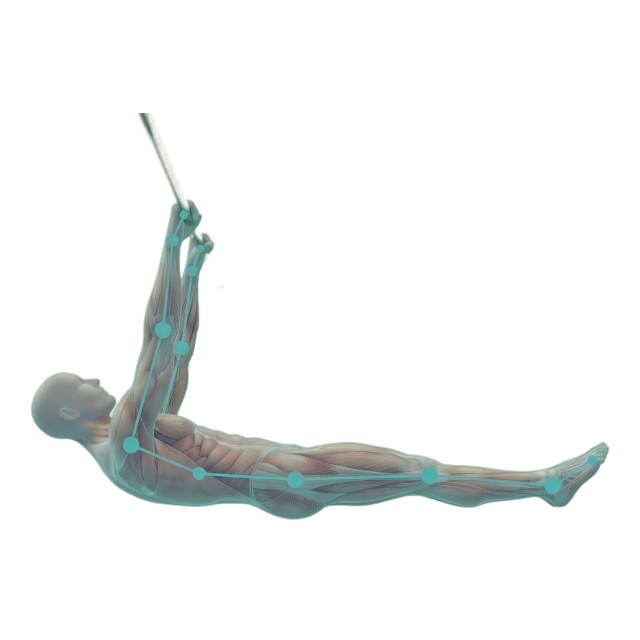
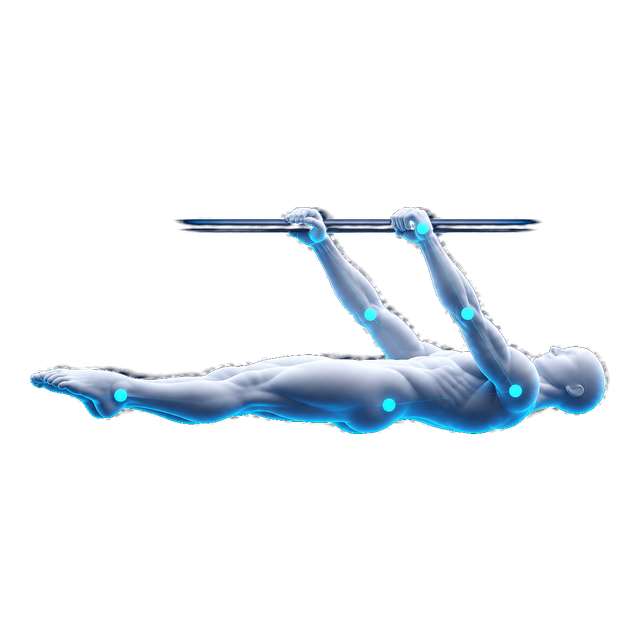
Exporte en resolution native et remplace l illustration du front lever
Nouvelle illustration du full front lever, detouree et normalisee au format
des autres figures via un script reutilisable (scripts/import-figure-image.mjs).

L export video sortait en 1080p quelle que soit la source. Il suit desormais
la resolution de la video importee, plafonnee a l UHD. Cela suppose de suivre
le niveau H.264 (4.2 s arrete vers le 1080p, la 4K demande 5.1 ou 5.2), de
relever le plafond de debit de 25 a 45 Mb/s sans quoi la 4K sortait plus
compressee que la 1080p, et de resserrer les paliers de repli quand l encodeur
de l appareil refuse la resolution native.

Le stockage Supabase reste en 1080p : la limite de 50 Mo par fichier est une
contrainte dure du plan gratuit.

Changed region(s): [[0.0312, 0.1562, 0.9688, 0.8125]]

diff --git a/src/lib/video/writer.ts b/src/lib/video/writer.ts
@@ -14,11 +14,29 @@ import { withFixedDuration } from "./fixMp4Duration";
 // les métadonnées sont placées en tête de fichier, durée comprise).
 // MediaRecorder reste en repli pour les navigateurs sans WebCodecs.
 
+// Chaînes de codec H.264, par profil et par niveau. Le niveau borne la
+// résolution : 4.2 s'arrête à peu près au 1080p, il faut 5.1 ou 5.2 pour de
+// la 4K. Un encodeur à qui on demande du 3840x2160 en niveau 4.2 refuse la
+// configuration, ce qui faisait retomber tout l'export en MediaRecorder.
+const CODEC_CANDIDATES_HIGH_RES = [
+  "avc1.640034", // High 5.2 — couvre la 4K
+  "avc1.640033", // High 5.1
+  "avc1.4D0034", // Main 5.2
+];
 const CODEC_CANDIDATES = [
   "avc1.42002A", // Baseline 4.2 — le plus largement décodable
   "avc1.4D002A", // Main 4.2
   "avc1.64002A", // High 4.2
 ];
+
+// Au dessus du 1080p, les niveaux élevés passent en premier ; les niveaux
+// plus bas restent essayés ensuite, parce que certains encodeurs acceptent
+// une résolution que leur niveau déclaré ne couvre pas en théorie.
+function codecCandidatesFor(width: number, height: number): string[] {
+  return Math.max(width, height) > 1920
+    ? [...CODEC_CANDIDATES_HIGH_RES, ...CODEC_CANDIDATES]
+    : CODEC_CANDIDATES;
+}
 
 const RECORDER_MIME_TYPES = [
   "video/mp4;codecs=avc1.42E01E",
@@ -33,8 +51,15 @@ const RECORDER_MIME_TYPES = [
 // défaut du navigateur, pour un rendu net et publiable plutôt que
 // compressé. Recalculé après un éventuel redimensionnement, sinon une
 // vidéo réduite garderait le débit d'une 1080p et pèserait pour rien.
+//
+// Le plafond était à 25 Mb/s, calibré sur le 1080p. En 4K il ramenait le
+// débit à 3 bits/pixel, soit une image visiblement plus compressée que ce
+// que reçoit une 1080p : la résolution montait, la qualité descendait.
+// Il est donc porté à 45 Mb/s, ce qui reste supportable en mémoire —
+// le muxer garde tout le fichier en RAM avant le téléchargement, et
+// 45 Mb/s font environ 170 Mo pour trente secondes.
 export function bitrateFor(width: number, height: number): number {
-  return Math.min(25_000_000, Math.max(4_000_000, Math.round(width * height * 9)));
+  return Math.min(45_000_000, Math.max(4_000_000, Math.round(width * height * 9)));
 }
 
 export type VideoWriter = {
@@ -66,7 +91,7 @@ async function pickCodec(
   bitrate: number
 ): Promise<string | null> {
   if (typeof VideoEncoder === "undefined") return null;
-  for (const codec of CODEC_CANDIDATES) {
+  for (const codec of codecCandidatesFor(width, height)) {
     try {
       const support = await VideoEncoder.isConfigSupported({
         codec,
@@ -382,8 +407,17 @@ export async function createVideoWriter(
   //
   // Le canvas vient d'être créé pour l'export et rien n'y est encore
   // dessiné : le redimensionner ici est sans effet de bord.
-  for (const maxDimension of [Infinity, 720, 540]) {
+  // Paliers resserrés depuis que l'export sort en résolution native : une
+  // source 4K refusée tombait directement en 720p, alors qu'un encodeur qui
+  // cale en 4K accepte presque toujours du 1440p ou du 1080p.
+  let lastTried = "";
+  for (const maxDimension of [Infinity, 2160, 1440, 1080, 720, 540]) {
     resizeCanvas(canvas, maxDimension);
+    // Un palier plus haut que la source ne change rien : inutile de repayer
+    // une vérification d'encodeur pour la même taille.
+    const size = `${canvas.width}x${canvas.height}`;
+    if (size === lastTried) continue;
+    lastTried = size;
     const writer = await createWebCodecsWriter(
       canvas,
       bitrateFor(canvas.width, canvas.height)

diff --git a/src/lib/pose/exportVideo.ts b/src/lib/pose/exportVideo.ts
@@ -16,12 +16,21 @@ function sleep(ms: number): Promise<void> {
   return new Promise((resolve) => setTimeout(resolve, ms));
 }
 
-// Taille max de sortie, alignée sur ce que consomment réellement Instagram/
-// TikTok (1080x1920 en portrait) — exporter en UHD natif (souvent 2160x3840
-// sur un téléphone récent) n'apporte aucune qualité visible une fois republié
-// (le réseau recompresse de toute façon) et multiplie par 4 le travail de
-// rendu par frame, l'une des causes du saccadé à l'enregistrement.
-const MAX_EXPORT_DIMENSION = 1080;
+// Plafond de résolution de l'export.
+//
+// L'export sortait auparavant en 1080p quelle que soit la source, au motif
+// qu'Instagram et TikTok recompressent de toute façon. C'était vrai pour la
+// republication, mais faux pour l'utilisateur : une vidéo filmée en 4K
+// revenait dégradée, et le fichier téléchargé n'était plus utilisable pour
+// autre chose que le réseau social. On exporte donc désormais à la
+// résolution native de la source, plafonnée à l'UHD.
+//
+// Deux effets à connaître. Le rendu par image coûte quatre fois plus cher en
+// 4K qu'en 1080p, l'export est donc plus long. Et si l'encodeur de l'appareil
+// refuse la résolution native, createVideoWriter redescend automatiquement
+// par paliers (voir writer.ts) : on ne perd jamais l'export, seulement des
+// pixels.
+const MAX_EXPORT_DIMENSION = 3840;
 
 const CRITERE_LABELS: Record<CriterionScore["critere"], string> = {
   shoulder_protraction: "Épaules",

diff --git a/CLAUDE.md b/CLAUDE.md
@@ -27,6 +27,8 @@ ne code pas.
 | Schéma base de données | `supabase/schema.sql` + `supabase/migrations/` |
 | Pipeline d'analyse | `src/lib/pose/runAnalysis.ts` |
 | Export vidéo annotée | `src/lib/pose/exportVideo.ts` |
+| Encodage du fichier exporté | `src/lib/video/writer.ts` |
+| Préparation des illustrations de figures | `scripts/import-figure-image.mjs` |
 
 `grid.ts` contient l'historique de calibration de chaque seuil en
 commentaires : d'où vient la valeur, sur combien d'échantillons réels, et
@@ -145,6 +147,28 @@ jambes), `straightestKneeAngle` et `straightestLegHipAngle` (jambe la plus
 tendue, celle qui porte la difficulté). Toute future figure asymétrique
 doit être notée sur ces critères, pas sur les moyennes.
 
+**L'export sort en résolution native, le stockage reste en 1080p.** Ce sont
+deux chemins distincts qu'il ne faut pas confondre. Le fichier téléchargé
+avec le squelette suit désormais la résolution de la vidéo source, plafonnée
+à l'UHD : une vidéo filmée en 4K se télécharge en 4K. Le fichier téléversé
+sur Supabase, lui, reste ré-encodé à 1080p, parce que la limite de 50 Mo par
+fichier et le quota de 1 Go du plan gratuit sont des contraintes dures.
+Conséquence à connaître et à ne pas traiter comme un bug : un export lancé
+juste après l'analyse part du fichier d'origine et sort en 4K, un export
+relancé depuis l'historique part du fichier stocké et sort en 1080p. Monter
+la résolution supposait aussi de suivre le niveau H.264 (4.2 s'arrête vers
+le 1080p, la 4K demande 5.1 ou 5.2) et de relever le plafond de débit, sans
+quoi la 4K sortait plus compressée que la 1080p.
+
+**Les illustrations de figures passent par un script, pas par un glisser
+déposer.** Les visuels arrivent sur fond noir alors que l'application les
+affiche en `object-contain` sur une carte ardoise avec un halo cyan quand la
+figure est sélectionnée : un fond opaque produirait un rectangle noir et un
+halo carré. `scripts/import-figure-image.mjs` détoure le sujet, retire le
+reflet au sol quand il est détaché du corps, et normalise au format des
+images en place (640x640 RGBA, sujet sur 580 px, centré). Toute nouvelle
+illustration doit passer par lui plutôt que d'être copiée à la main.
+
 **Rôle admin en base, pas en dur.** Le drapeau `is_admin` vit sur
 `profiles`, ce qui évite de coder une adresse e-mail dans le dépôt et
 permet de donner ou retirer le rôle sans redéploiement.
@@ -164,9 +188,13 @@ permet de donner ou retirer le rôle sans redéploiement.
 - **50 Mo par fichier** : plafond du plan gratuit Supabase, non
   configurable. Le passage à 100 Mo suppose le plan Pro à 25 $/mois.
 - **1 Go de stockage total** sur le plan gratuit.
-- **Single leg front lever non calibrée** : ses scores, et donc le fantôme
-  qui en découle, sont approximatifs. Les autres variations de front lever
-  ont été recalibrées le 2026-09-01.
+- **Straddle planche encore en DRAFT** : 3 échantillons seulement, ses
+  scores et le fantôme qui en découle restent approximatifs.
+- **Export 4K plus lent** : le rendu par image coûte quatre fois plus cher
+  qu'en 1080p, et le fichier est gardé en mémoire avant téléchargement
+  (environ 170 Mo pour trente secondes). Si l'encodeur de l'appareil refuse
+  la résolution native, `writer.ts` redescend par paliers plutôt que
+  d'échouer.
 - **Pas de multi-langue.** Français uniquement. L'anglais a été demandé
   mais reporté : environ 950 lignes de texte dans 46 fichiers, à faire
   quand on saura si l'audience est francophone ou internationale.
